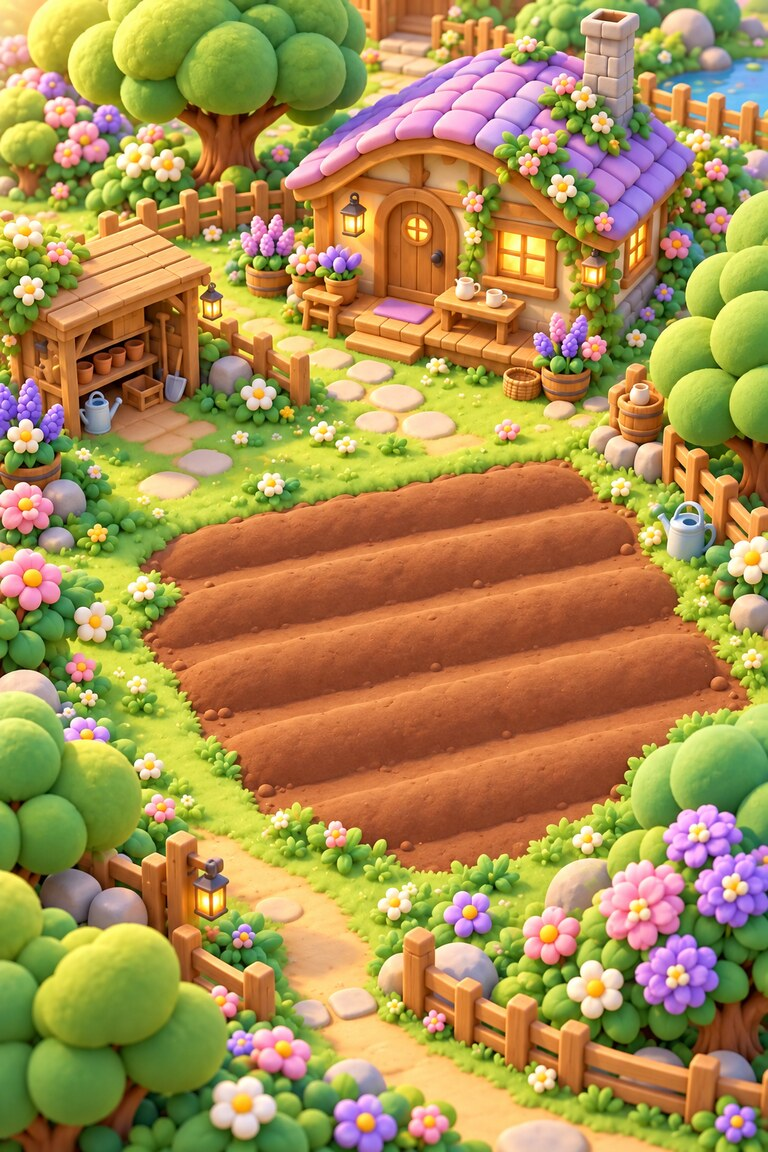
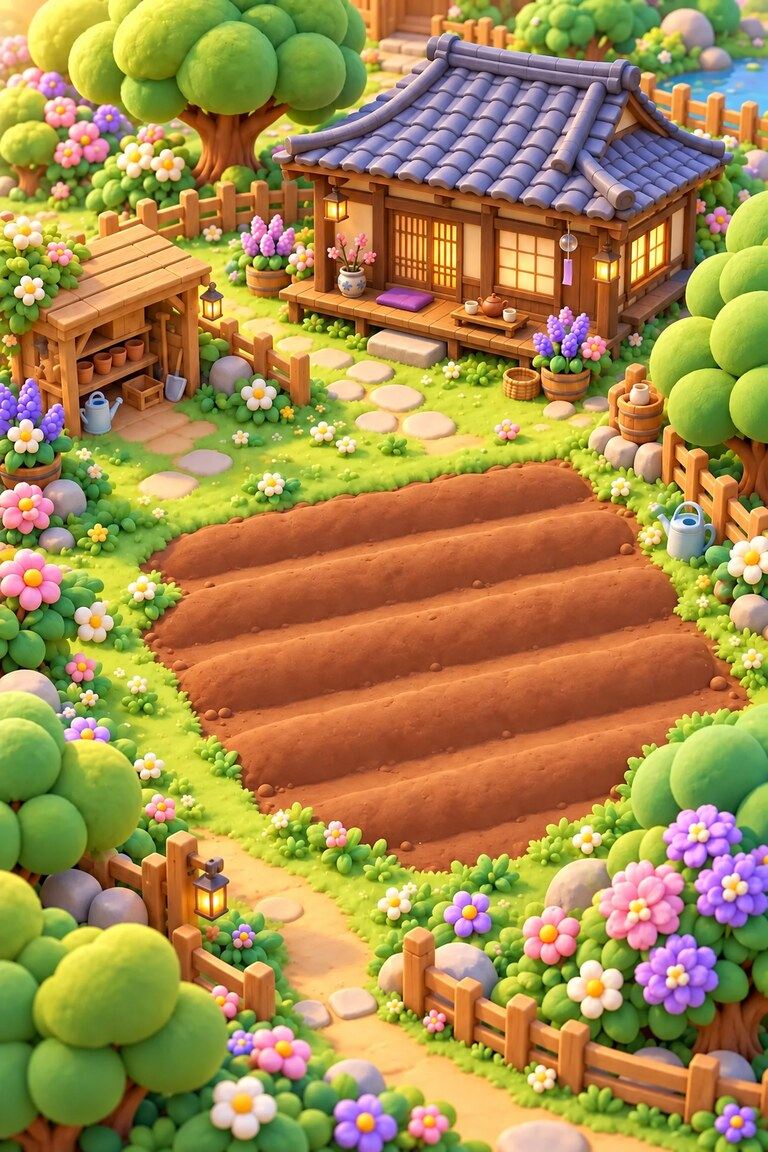
Give grandmother a cozy Japanese kominka home

diff --git a/docs/GARDEN_KOMINKA_20261014.md b/docs/GARDEN_KOMINKA_20261014.md
@@ -1,0 +1,14 @@
+# おばあちゃんの古民家 — 2026-10-14
+
+ファンシーでポップな立体感を保ちながら、家を日本の古民家風に変更。青紫がかった瓦屋根、木の柱と梁、格子戸と障子、縁側を追加し、座布団・急須・湯のみ・風鈴で暮らしを表現しました。畑と操作、保存データは変更していません。
+
+組み込みの image_gen ツールで既存背景を編集し、768 × 1152へ縮小、WebP/JPEGに変換しました。
+
+## 保存先
+
+- `/workspace/scratch/e5c65962f54a/yoki/artifacts/mobile/assets/images/world/grandmother-garden.webp`
+- `/workspace/scratch/e5c65962f54a/yoki/artifacts/mobile/assets/images/world/grandmother-garden.jpg`
+
+## 生成プロンプト
+
+Use case: precise-object-edit. Edit target: the supplied portrait 3D fancy pop cottage garden background. Change ONLY the house in the upper-right area into a charming traditional Japanese KOMINKA, an old countryside grandmother's home. Keep its exact footprint, approximate roof silhouette and size, camera angle and position. Replace the Western arched front door, pink roof and brick chimney with a low gently curved blue-gray Japanese kawara tiled roof with a soft lavender tint, deep eaves, warm dark-brown exposed timber posts and beams, creamy plaster walls, wooden lattice sliding entrance, translucent shoji windows lit warmly inside, and a wooden engawa veranda. On the veranda put a small plum-purple zabuton cushion and a tray with a round kyusu teapot and two little tea cups. A small ceramic flower pot and a subtle hanging wind chime under the eave add a grandmother's welcoming touch. No chimney. The house must clearly read as Japanese kominka, not a Western cottage, shrine or Chinese building. VERY IMPORTANT preserve the existing fancy, pop, rounded soft 3D toy/clay style, cheerful saturated pastel flowers, soft warm daylight and tactile smooth materials. Make wooden beams and roof tiles plump and softly rounded, not gritty or photorealistic, no bleak weathering. Preserve the vegetable field, every furrow position, the paths, shed at left, trees, flowers, fences, watering can, lighting and portrait framing outside the house unchanged. Keep the field entirely empty for game crop overlays. No characters, no vegetables in field, no text, UI or borders.
